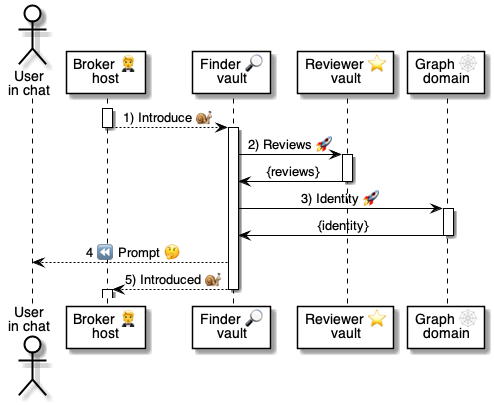
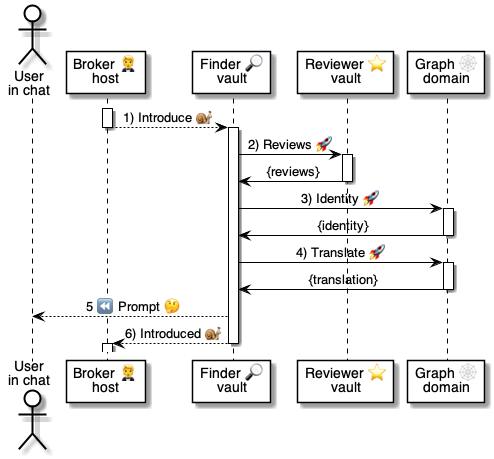
.

diff --git a/4 ⚙ Solution/50 🫥 Agent domains/Finders 🔎/🔎🅰 Finder methods/Introduce 🤵🐌🔎/🔎 Introduce 📃 handler.md b/4 ⚙ Solution/50 🫥 Agent domains/Finders 🔎/🔎🅰 Finder methods/Introduce 🤵🐌🔎/🔎 Introduce 📃 handler.md
@@ -3,6 +3,14 @@
 > Purpose
 * [Script 📃](<../../../../35 💬 Chats/Scripts 📃/📃 basics/Script 📃.md>) that implements the [`Introduce@Finder` 🅰 method](<🔎 Introduce 🐌 msg.md>)
 
+<br/>
+
+## Flow
+
+![alt text](<🔎 Introduce ⚙ uml.png>)
+
+<br/>
+
 ## Script
 
 ```yaml
@@ -47,12 +55,13 @@
 
 # Send the Prompt
 - INFO:
-    Text:   
-        {$translation.Domain} 
-        ({$reviews.Rating} ⭐)
+    Text: "{$translation.Domain} ({$reviews.Rating} ⭐)"
     Details: |
         {$reviews.Description}
+
         {$identity.Description}
+    Options:
+        $reviews.Options
 
 # Inform the Broker
 - SEND:
@@ -65,6 +74,6 @@
 
 Needs||
 |-|-
-| [Commands ⌘](<../../../../35 💬 Chats/Scripts 📃/📃 basics/Command ⌘.md>) | 
+| [Commands ⌘](<../../../../35 💬 Chats/Scripts 📃/📃 basics/Command ⌘.md>) | [`ASSERT`](<../../../../35 💬 Chats/Scripts 📃/📃 holders 🧠/ASSERT 🚦/🚦 ASSERT ⌘ cmd.md>) [`CASE`](<../../../../35 💬 Chats/Scripts 📃/📃 control ▶/CASE ⏯/⏯ CASE ⌘ cmd.md>) [`INFO`](<../../../../35 💬 Chats/Prompts 🤔/🤔📢 Prompt status/INFO ℹ/INFO ℹ prompt.md>) [`PARALLEL`](<../../../../35 💬 Chats/Scripts 📃/📃 control ▶/PARALLEL *⃣/*⃣ PARALLEL ⌘ cmd.md>) [`SEND`](<../../../../35 💬 Chats/Scripts 📃/📃 messages 📨/SEND 📬/📬 SEND ⌘ cmd.md>) [`VERIFY`](<../../../../35 💬 Chats/Scripts 📃/📃 messages 📨/VERIFY 🔐/🔐 VERIFY ⌘ cmd.md>)
 | [Messages 📨](<../../../../30 🧩 Data/Messages 📨/📨 Message/📨 Message.md>) | [`Identity@Graph` 🅰 method](<../../../../45 🤲 Helper domains/Graphs 🕸/🕸🅰 Graph methods/👥🚀🕸 Identity.md>) <br/> [`Translate@Graph` 🅰 method](<../../../../45 🤲 Helper domains/Graphs 🕸/🕸🅰 Graph methods/👥🚀🕸 Translate.md>) <br/> [`Reviews@Reviewer` 🅰 method](<../../../Reviewers ⭐/⭐🅰 Reviewer methods/🔎🚀⭐ Reviews.md>)
 |

diff --git a/4 ⚙ Solution/50 🫥 Agent domains/Finders 🔎/🔎⏩ Finder flows/Introduce 🔎⏩🧑🦰/🔎 Introduce ⏩ flow.md b/4 ⚙ Solution/50 🫥 Agent domains/Finders 🔎/🔎⏩ Finder flows/Introduce 🔎⏩🧑🦰/🔎 Introduce ⏩ flow.md
@@ -25,7 +25,7 @@
 
 ## Flow diagram
 
-![Introduce](<🔎 Introduce ⚙ uml>)
+![Introduce](<🔎 Introduce ⚙ uml.png>)
 
 
 | # | Call | Notes
@@ -33,6 +33,7 @@
 | 1 | [🤵🐌🔎 `Introduce@Finder`](<../../🔎🅰 Finder methods/Introduce 🤵🐌🔎/🔎 Introduce 🐌 msg.md>) | Ask to introduce a [Host 🤗](<../../../../41 🎭 Domain Roles/Hosts 🤗/🤗 Host role/🤗🎭 Host role.md>).
 | 2 | [🔎🚀⭐ `Reviews@Reviewer`](<../../../Reviewers ⭐/⭐🅰 Reviewer methods/🔎🚀⭐ Reviews.md>) | Get domain reviews (may be cached).
 | 3 | [👥🚀🕸 `Identity@Graph`](<../../../../45 🤲 Helper domains/Graphs 🕸/🕸🅰 Graph methods/👥🚀🕸 Identity.md>) | Get domain identity (may be cached).
-| 4 | [🤗⏩🧑🦰 Prompt 🤔](<../../../../41 🎭 Domain Roles/Hosts 🤗/🤗⏩ Host flows/Prompt 🤗⏩🤔/🤗 Prompt ⏩ flow.md>) | Inform the user.
-| 5 | [🔎🐌🤵 `Introduced@Broker`](<../../../../20 🧑🦰 UI/Brokers 🤵/🤵🅰 Broker methods/Chats 💬 Introduced 🔎🐌🤵/🤵 Introduced 🐌 msg.md>) | Finish introduction.
+| 4 | [👥🚀🕸 `Translate@Graph`](<../../../../45 🤲 Helper domains/Graphs 🕸/🕸🅰 Graph methods/👥🚀🕸 Translate.md>) | Get domain translations (may be cached).
+| 5 | [🤗⏩🧑🦰 Prompt 🤔](<../../../../41 🎭 Domain Roles/Hosts 🤗/🤗⏩ Host flows/Prompt 🤗⏩🤔/🤗 Prompt ⏩ flow.md>) | Inform the user.
+| 6 | [🔎🐌🤵 `Introduced@Broker`](<../../../../20 🧑🦰 UI/Brokers 🤵/🤵🅰 Broker methods/Chats 💬 Introduced 🔎🐌🤵/🤵 Introduced 🐌 msg.md>) | Finish introduction.
 ||

diff --git a/4 ⚙ Solution/50 🫥 Agent domains/Reviewers ⭐/⭐🅰 Reviewer methods/🔎🚀⭐ Reviews.md b/4 ⚙ Solution/50 🫥 Agent domains/Reviewers ⭐/⭐🅰 Reviewer methods/🔎🚀⭐ Reviews.md
@@ -5,12 +5,22 @@
 
 # 🔎🚀⭐ Reviews @ [Reviewer](<../⭐ Reviewer agent/⭐ Reviewer 🫥 agent.md>)
 
+> Implementation
+* Implements the [Reviewer ⭐ agent](<../⭐ Reviewer agent/⭐ Reviewer 🫥 agent.md>)
+
+> Flow
+* Part of the [`Introduce` ⏩ flow](<../../Finders 🔎/🔎⏩ Finder flows/Introduce 🔎⏩🧑🦰/🔎 Introduce ⏩ flow.md>)
+
+<br/>
+
+## Synchronous Request 🚀
 
 ```yaml
 Header:
     From: any-finder.dom
     To: any-reviewer.dom
     Subject: Reviews@Reviewer
+
 Body:
     Domain: any-domain.dom
 ```
@@ -34,5 +44,5 @@ Description: |
     - 4.7⭐ delivery by 357 users
     - 3.5⭐ support by 21 users
 Options:
-    - /List reviews § .HOST,any-reviewer.dom,fans
+    - /List reviews § .HOST,any-reviewer.dom,domain
 ```
